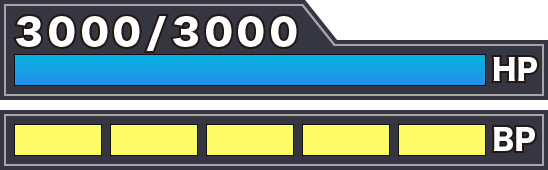
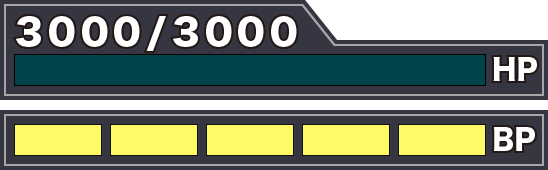
敵のHPゲージを追加した

Changed region(s): [[0.0, 0.3235, 0.8996, 0.5]]

diff --git a/src/js/game-object/gauge/view/enemy-gauge-view.js b/src/js/game-object/gauge/view/enemy-gauge-view.js
@@ -7,7 +7,7 @@ import type {Resources} from "../../../resource";
 import type {PreRender} from "../../../action/game-loop/pre-render";
 import {SimpleImageMesh} from "../../../mesh/simple-image-mesh";
 import {CANVAS_IMAGE_IDS} from "../../../resource/canvas-image";
-import {Group} from "three";
+import {EnemyHpBar} from "./enemy-player-bar";
 
 export const BASE_CANVAS_SIZE = 1024;
 export const SCALE = 0.3;
@@ -16,9 +16,10 @@ export const SCALE = 0.3;
 export class EnemyGaugeView implements GaugeView {
   _group: THREE.Group;
   _base: SimpleImageMesh;
+  _hpBar: EnemyHpBar;
 
   constructor(resources: Resources) {
-    this._group = new Group();
+    this._group = new THREE.Group();
     this._group.scale.set(SCALE, SCALE, SCALE);
 
     const gaugeBaseResource = resources.canvasImages.find(v => v.id === CANVAS_IMAGE_IDS.ENEMY_GAUGE_BASE);
@@ -30,6 +31,10 @@ export class EnemyGaugeView implements GaugeView {
       image: gaugeBase
     });
     this._group.add(this._base.getObject3D());
+
+    this._hpBar = new EnemyHpBar(resources);
+    this._hpBar.getObject3D().position.set(210 ,30, 1);
+    this._group.add(this._hpBar.getObject3D());
   }
 
   /** デストラクタ */
@@ -40,6 +45,7 @@ export class EnemyGaugeView implements GaugeView {
   /** モデルをビューに反映させる */
   engage(model: GaugeModel): void {
     // TODO ゲージ反映を実装する
+    this._hpBar.setValue(model.hp / model.maxHp);
   }
 
   /** プリレンダー */

diff --git a/src/js/game-object/gauge/view/player-gauge-view.js b/src/js/game-object/gauge/view/player-gauge-view.js
@@ -8,7 +8,7 @@ import type {PreRender} from "../../../action/game-loop/pre-render";
 import {SimpleImageMesh} from "../../../mesh/simple-image-mesh";
 import {CANVAS_IMAGE_IDS} from "../../../resource/canvas-image";
 import {Group} from "three";
-import {HpBar} from "./hp-bar";
+import {PlayerHpBar} from "./player-hp-bar";
 
 export const BASE_CANVAS_SIZE = 1024;
 export const SCALE = 0.3;
@@ -17,7 +17,7 @@ export const SCALE = 0.3;
 export class PlayerGaugeView implements GaugeView {
   _group: THREE.Group;
   _base: SimpleImageMesh;
-  _hpBar: HpBar;
+  _hpBar: PlayerHpBar;
 
   constructor(resources: Resources) {
     this._group = new Group();
@@ -34,7 +34,7 @@ export class PlayerGaugeView implements GaugeView {
     });
     this._group.add(this._base.getObject3D());
 
-    this._hpBar = new HpBar(resources);
+    this._hpBar = new PlayerHpBar(resources);
     this._hpBar.getObject3D().position.set(-210 ,30, 1);
     this._group.add(this._hpBar.getObject3D());
   }

diff --git a/src/js/game-object/gauge/view/enemy-player-bar.js b/src/js/game-object/gauge/view/enemy-player-bar.js
@@ -1,0 +1,13 @@
+// @flow
+
+import type {Resources} from "../../../resource";
+import {PlayerHpBar} from "./player-hp-bar";
+
+/** 敵のHPバー */
+export class EnemyHpBar extends PlayerHpBar {
+  constructor(resources: Resources) {
+    super(resources);
+    this._group.scale.x = -1;
+    this._group.position.x *= -1;
+  }
+}

diff --git a/src/js/game-object/gauge/view/player-hp-bar.js b/src/js/game-object/gauge/view/player-hp-bar.js
@@ -11,8 +11,8 @@ export const CANVAS_HEIGHT = 512;
 export const MESH_WIDTH = 512;
 export const MESH_HEIGHT = 512;
 
-/** HPバー */
-export class HpBar {
+/** プレイヤーのHPバー */
+export class PlayerHpBar {
   _texture: THREE.Texture;
   _barImage: Image;
   _mesh: THREE.Mesh;
